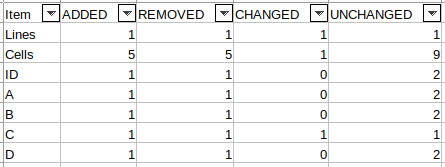
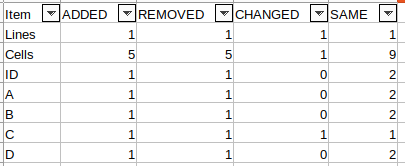
[#32] Rename KeyedTableDiff.Synthesis.Action.UNCHANGED to SAME

diff --git a/cdc-office-tools/src/main/java/cdc/office/tools/KeyedTableDiffExporter.java b/cdc-office-tools/src/main/java/cdc/office/tools/KeyedTableDiffExporter.java
@@ -181,21 +181,21 @@ public class KeyedTableDiffExporter {
                                               WorkbookWriter<?> writer) throws IOException {
             writer.beginSheet("Synthesis");
             writer.beginRow(TableSection.HEADER);
-            writer.addCells("Item", Action.ADDED, Action.REMOVED, Action.CHANGED, Action.UNCHANGED);
+            writer.addCells("Item", Action.ADDED, Action.REMOVED, Action.CHANGED, Action.SAME);
 
             writer.beginRow(TableSection.DATA);
             writer.addCell("Lines");
             writer.addCell(synthesis.getLinesCount(Action.ADDED));
             writer.addCell(synthesis.getLinesCount(Action.REMOVED));
             writer.addCell(synthesis.getLinesCount(Action.CHANGED));
-            writer.addCell(synthesis.getLinesCount(Action.UNCHANGED));
+            writer.addCell(synthesis.getLinesCount(Action.SAME));
 
             writer.beginRow(TableSection.DATA);
             writer.addCell("Cells");
             writer.addCell(synthesis.getCellsCount(Action.ADDED));
             writer.addCell(synthesis.getCellsCount(Action.REMOVED));
             writer.addCell(synthesis.getCellsCount(Action.CHANGED));
-            writer.addCell(synthesis.getCellsCount(Action.UNCHANGED));
+            writer.addCell(synthesis.getCellsCount(Action.SAME));
 
             for (final String name : synthesis.getColumnNames()) {
                 writer.beginRow(TableSection.DATA);
@@ -203,7 +203,7 @@ public class KeyedTableDiffExporter {
                 writer.addCell(synthesis.getColumnCellsCount(name, Action.ADDED));
                 writer.addCell(synthesis.getColumnCellsCount(name, Action.REMOVED));
                 writer.addCell(synthesis.getColumnCellsCount(name, Action.CHANGED));
-                writer.addCell(synthesis.getColumnCellsCount(name, Action.UNCHANGED));
+                writer.addCell(synthesis.getColumnCellsCount(name, Action.SAME));
             }
         }
     }

diff --git a/cdc-office-tables/src/main/java/cdc/office/tables/diff/KeyedTableDiff.java b/cdc-office-tables/src/main/java/cdc/office/tables/diff/KeyedTableDiff.java
@@ -243,7 +243,7 @@ public class KeyedTableDiff {
             ADDED,
             REMOVED,
             CHANGED,
-            UNCHANGED
+            SAME
         }
 
         /** Counts of lines. */
@@ -297,8 +297,8 @@ public class KeyedTableDiff {
                             break;
                         case SAME:
                         case NULL:
-                            cells[Action.UNCHANGED.ordinal()]++;
-                            counts[Action.UNCHANGED.ordinal()]++;
+                            cells[Action.SAME.ordinal()]++;
+                            counts[Action.SAME.ordinal()]++;
                             break;
                         default:
                             throw new UnexpectedValueException(lcdiff.getDiff().getKind());
@@ -314,12 +314,12 @@ public class KeyedTableDiff {
                     }
                     break;
                 case SAME:
-                    lines[Action.UNCHANGED.ordinal()]++;
+                    lines[Action.SAME.ordinal()]++;
                     // left and right header have the same size
-                    cells[Action.UNCHANGED.ordinal()] += diffs.leftHeader.size();
+                    cells[Action.SAME.ordinal()] += diffs.leftHeader.size();
                     for (final String name : diffs.leftHeader.getNames()) {
                         final int[] counts = columnToCells.get(name);
-                        counts[Action.UNCHANGED.ordinal()]++;
+                        counts[Action.SAME.ordinal()]++;
                     }
                     break;
                 default:

diff --git a/CHANGELOG.md b/CHANGELOG.md
@@ -11,6 +11,7 @@ and this project adheres to [Semantic Versioning](https://semver.org/spec/v2.0.0
 
 ### Changed
 - Improved error message in Header.
+- Renamed `KeyedTableDiff.Synthesis.Action.UNCHANGED` to `SAME`. #32
 
 ### Fixed
 - Fixed the `--no-added-or-removed-marks`option in `ksd`. #31
